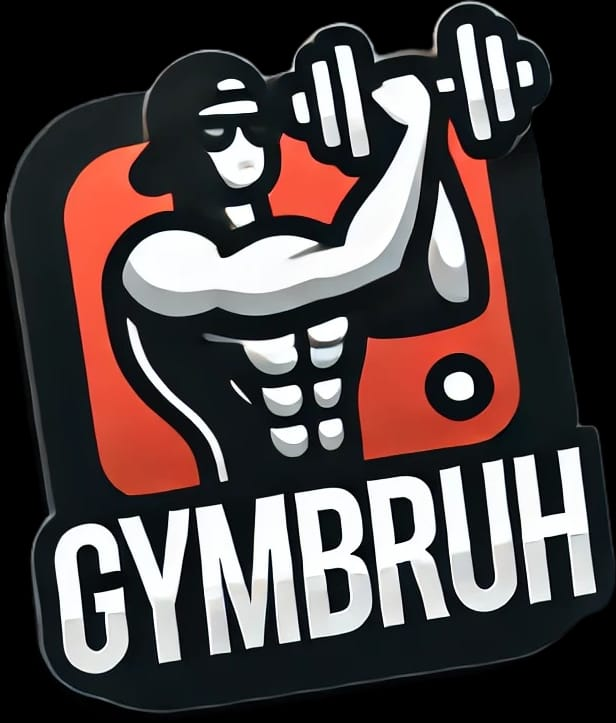
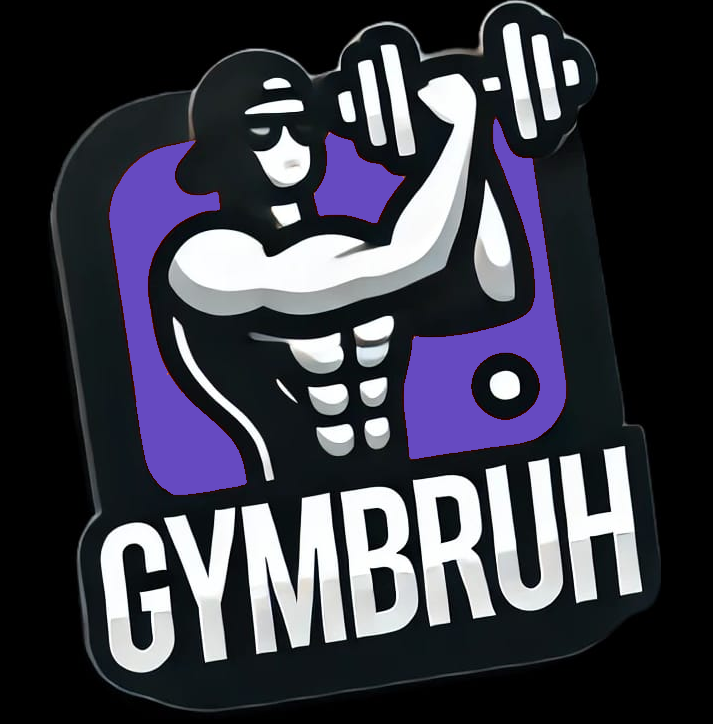
Update profile, workouts

diff --git a/GymBruhReact/app/(tabs)/profile.jsx b/GymBruhReact/app/(tabs)/profile.jsx
@@ -1,19 +1,60 @@
 import React from 'react';
-import { SafeAreaView, Text, Pressable } from 'react-native';
-import { Link } from 'expo-router';
-import styles from '../styles/main';
+import { View, Text, TouchableOpacity, Switch, Image, ScrollView } from "react-native";
+import styles from '../styles/about';
 
-const Profile = () => {
+const ProfileScreen = () => {
+  const [notificationsEnabled, setNotificationsEnabled] = React.useState(true);
   return (
-    <SafeAreaView style={styles.container}>
-      <Text style={styles.title}>Profile</Text>
-      <Link href="login" asChild style={styles.link}>
-        <Pressable style={styles.button}>
-          <Text style={styles.buttonText}>Logout</Text>
-        </Pressable>
-      </Link>
-    </SafeAreaView>
+    <ScrollView style={styles.container}>
+      <View style={styles.section}>
+        <Image style={styles.image} source={require('../default.png')}></Image>
+        <Text style={[styles.sectionTitle, {fontSize: 30, alignSelf:'center'}]}>John</Text>
+      </View>
+      {/* User Information Section */}
+      <View style={styles.section}>
+        <Text style={styles.sectionTitle}>Your Account</Text>
+        <Text style={styles.userDetail}>Name: John Doe</Text>
+        <Text style={styles.userDetail}>Age: 28</Text>
+        <Text style={styles.userDetail}>Weight: 75kg</Text>
+        <Text style={styles.userDetail}>Height: 180cm</Text>
+        <Text style={styles.userDetail}>Progress: 70%</Text>
+        <View style={styles.switchContainer}>
+          <Text style={styles.userDetail}>Notifications</Text>
+          <Switch
+            value={notificationsEnabled}
+            onValueChange={() => setNotificationsEnabled(!notificationsEnabled)}
+          />
+        </View>
+      </View>
+
+      {/* Register as Trainer Section */}
+      <TouchableOpacity style={styles.section}>
+        <Text style={styles.sectionTitle}>Register as Trainer</Text>
+      </TouchableOpacity>
+
+      {/* Premium Section */}
+      <TouchableOpacity style={styles.section}>
+        <Text style={styles.sectionTitle}>Premium</Text>
+      </TouchableOpacity>
+
+      {/* GymBruh Section */}
+      <TouchableOpacity style={styles.section}>
+        <Text style={styles.sectionTitle}>About</Text>
+      </TouchableOpacity>
+      <TouchableOpacity style={styles.section}>
+        <Text style={styles.sectionTitle}>Support</Text>
+      </TouchableOpacity>
+
+
+      {/* Logout and Delete Account Section */}
+      <TouchableOpacity style={[styles.section, styles.logoutSection]}>
+        <Text style={[styles.sectionTitle, styles.logoutText]}>Logout</Text>
+      </TouchableOpacity>
+      <TouchableOpacity style={[styles.section, styles.deleteAccountSection]}>
+        <Text style={[styles.sectionTitle, styles.deleteText]}>Delete Account</Text>
+      </TouchableOpacity>
+    </ScrollView>
   );
 };
 
-export default Profile;
+export default ProfileScreen;

diff --git a/GymBruhReact/app/(tabs)/_layout.tsx b/GymBruhReact/app/(tabs)/_layout.tsx
@@ -3,10 +3,12 @@ import React from 'react';
 import { Platform } from 'react-native';
 
 import { HapticTab } from '@/components/HapticTab';
-import { IconSymbol } from '@/components/ui/IconSymbol';
+import { Ionicons } from '@expo/vector-icons';
 import TabBarBackground from '@/components/ui/TabBarBackground';
 import { Colors } from '@/constants/Colors';
 import { useColorScheme } from '@/hooks/useColorScheme';
+
+const color = '#664ac1';
 
 export default function TabLayout() {
   const colorScheme = useColorScheme();
@@ -30,14 +32,28 @@ export default function TabLayout() {
         name="workout"
         options={{
           title: 'Workouts',
-          tabBarIcon: ({ color }) => <IconSymbol size={28} name="paperplane.fill" color={color} />,
+          tabBarIcon: () => <Ionicons name='barbell-outline' size={29} color={color}/>,
+        }}
+      />
+      <Tabs.Screen
+        name="sesh"
+        options={{
+          title: 'Sessions',
+          tabBarIcon: () => <Ionicons name='list-outline' size={29} color={color}/>,
+        }}
+      />
+      <Tabs.Screen
+        name="diet"
+        options={{
+          title: 'Diet',
+          tabBarIcon: () => <Ionicons name='pizza-outline' size={29} color={color}/>,
         }}
       />
       <Tabs.Screen
         name="profile"
         options={{
           title: 'Profile',
-          tabBarIcon: ({ color }) => <IconSymbol size={28} name="house.fill" color={color} />,
+          tabBarIcon: () => <Ionicons name='person-outline' size={29} color={color}/>,
         }}
       />
     </Tabs>

diff --git a/GymBruhReact/app/styles/main.js b/GymBruhReact/app/styles/main.js
@@ -1,8 +1,8 @@
 import { StyleSheet } from 'react-native';
 
 const black = '#343131';
-const red = '#C62E2E'
-const orange = '#EB5A3C'
+const purple = '#664ac1'
+const orange = '#8E05C2'
 
 const styles = StyleSheet.create({
     container: {
@@ -20,7 +20,7 @@ const styles = StyleSheet.create({
       paddingHorizontal: 10,
       marginBottom: 10,
       alignSelf: 'center',
-      outlineColor: 'red',
+      outlineColor: 'purple',
     },
     flex_inputs:{
       display:'flex',
@@ -37,7 +37,7 @@ const styles = StyleSheet.create({
       color: 'white',
       paddingHorizontal: 10,
       marginBottom: 10,
-      outlineColor: 'red',
+      outlineColor: 'purple',
     },
     title:{
       fontSize:42,
@@ -51,12 +51,13 @@ const styles = StyleSheet.create({
       fontWeight: 'bold',
       textAlign: 'center',
       color: 'white',
+      marginBottom: 10,
     },
     subtitle: {
       fontSize:18,
       fontWeight: 'bold',
       textAlign: 'center',
-      color: orange,
+      color: purple,
       marginBottom: 30
     },
     image: {
@@ -77,7 +78,7 @@ const styles = StyleSheet.create({
       height:60,
       justifyContent:'center',
       borderRadius:40,
-      backgroundColor:red,
+      backgroundColor:purple,
       padding:6,
       width: '120px',
       height: '50px',

diff --git a/GymBruhReact/app/(registration)/_layout.tsx b/GymBruhReact/app/(registration)/_layout.tsx
@@ -3,12 +3,13 @@ import React from 'react';
 import { Platform } from 'react-native';
 
 import { HapticTab } from '@/components/HapticTab';
-import { IconSymbol } from '@/components/ui/IconSymbol';
 import TabBarBackground from '@/components/ui/TabBarBackground';
 import { Colors } from '@/constants/Colors';
 import { useColorScheme } from '@/hooks/useColorScheme';
 import { Ionicons } from '@expo/vector-icons';
 import styles from '../styles/main'
+
+const color = '#664ac1';
 
 export default function TabLayout() {
   const colorScheme = useColorScheme();
@@ -32,14 +33,14 @@ export default function TabLayout() {
         name="login"
         options={{
           title: 'Login',
-          tabBarIcon: () => <Ionicons name='log-in-outline' size={29} color={'#EE4540'}/>,
+          tabBarIcon: () => <Ionicons name='log-in-outline' size={29} color={color}/>,
         }}
       />
       <Tabs.Screen
         name="signup"
         options={{
           title: 'Signup',
-          tabBarIcon: () => <Ionicons  name="person-add-outline" size={29} color='#EE4540'/>,
+          tabBarIcon: () => <Ionicons  name="person-add-outline" size={25} color={color}/>,
         }}
       />
     </Tabs>

diff --git a/GymBruhReact/app/styles/about.js b/GymBruhReact/app/styles/about.js
@@ -1,0 +1,60 @@
+import { StyleSheet } from 'react-native';
+
+const purple = '#664ac1'
+
+const styles = StyleSheet.create({
+  container: {
+    flex: 1,
+    marginTop: 30,
+  },
+  image: {
+    width: 100,
+    height: 100, 
+    resizeMode: 'contain',
+    alignSelf: 'center',
+    marginBottom: 10
+  },   
+  section: {
+    backgroundColor: "#09122C",
+    padding: 15,
+    marginVertical: 5,
+    borderRadius: 10,
+    marginHorizontal: 10,
+    shadowColor: "#000",
+    shadowOpacity: 0.1,
+    shadowOffset: { width: 0, height: 2 },
+    elevation: 2,
+  },
+  sectionTitle: {
+    fontSize: 18,
+    fontWeight: "bold",
+    color: "#9d85ed",
+  },
+  userDetail: {
+    fontSize: 16,
+    color: "white",
+    marginTop: 5,
+  },
+  switchContainer: {
+    flexDirection: "row",
+    justifyContent: "space-between",
+    alignItems: "center",
+    marginTop: 10,
+  },
+  logoutSection: {
+    backgroundColor: "#ff4d4d",
+  },
+  logoutText: {
+    color: "white",
+    textAlign: "center",
+  },
+  deleteAccountSection: {
+    backgroundColor: "#d9534f",
+  },
+  deleteText: {
+    color: "white",
+    textAlign: "center",
+  },
+});
+
+export default styles;

diff --git a/GymBruhReact/app/(registration)/login.jsx b/GymBruhReact/app/(registration)/login.jsx
@@ -1,12 +1,13 @@
 import React from 'react';
-import { SafeAreaView, Text, Pressable, TextInput, Image } from 'react-native';
+import { SafeAreaView, Text, Pressable, TextInput, Image, ImageBackground } from 'react-native';
 import { Link } from 'expo-router';
 import styles from '../styles/main'
 
 const Login = () => {
   return (
     <SafeAreaView style={styles.container}>
-      <Image  style={styles.image} source={require('../3.png')}></Image>
+      <ImageBackground source={'./doodle.png'} resizeMode="cover">
+      <Image style={styles.image} source={require('../3.png')}></Image>
       <Text style={styles.title}>Login</Text>
       <TextInput
         style={styles.input}
@@ -23,6 +24,7 @@ const Login = () => {
           <Text style={styles.buttonText}>Login</Text>
         </Pressable>
       </Link>
+    </ImageBackground>
     </SafeAreaView>
   );
 };

diff --git a/GymBruhReact/app/styles/workout.js b/GymBruhReact/app/styles/workout.js
@@ -1,0 +1,39 @@
+import { StyleSheet } from 'react-native';
+
+const black = '#343131';
+const purple = '#664ac1'
+const orange = '#8E05C2'
+
+const styles = StyleSheet.create({
+    container: {
+      flex:1,
+      flexDirection: 'column',
+      marginTop: 50
+    },
+    card: {
+        marginTop: 30,
+        width: '90%',
+        height: 80,
+        alignSelf: 'center',
+        backgroundColor: purple,
+    },
+    cardBody: {
+        flexDirection: 'row', 
+        justifyContent: 'space-between', 
+        alignItems: 'center'
+    },
+    cardText: {
+        fontSize:28,
+        fontWeight: 'bold',
+        color: 'white',
+    },
+    title:{
+        fontSize:42,
+        fontWeight: 'bold',
+        textAlign: 'center',
+        color: 'white',
+        marginBottom: 20,
+    },
+})
+
+export default styles;
